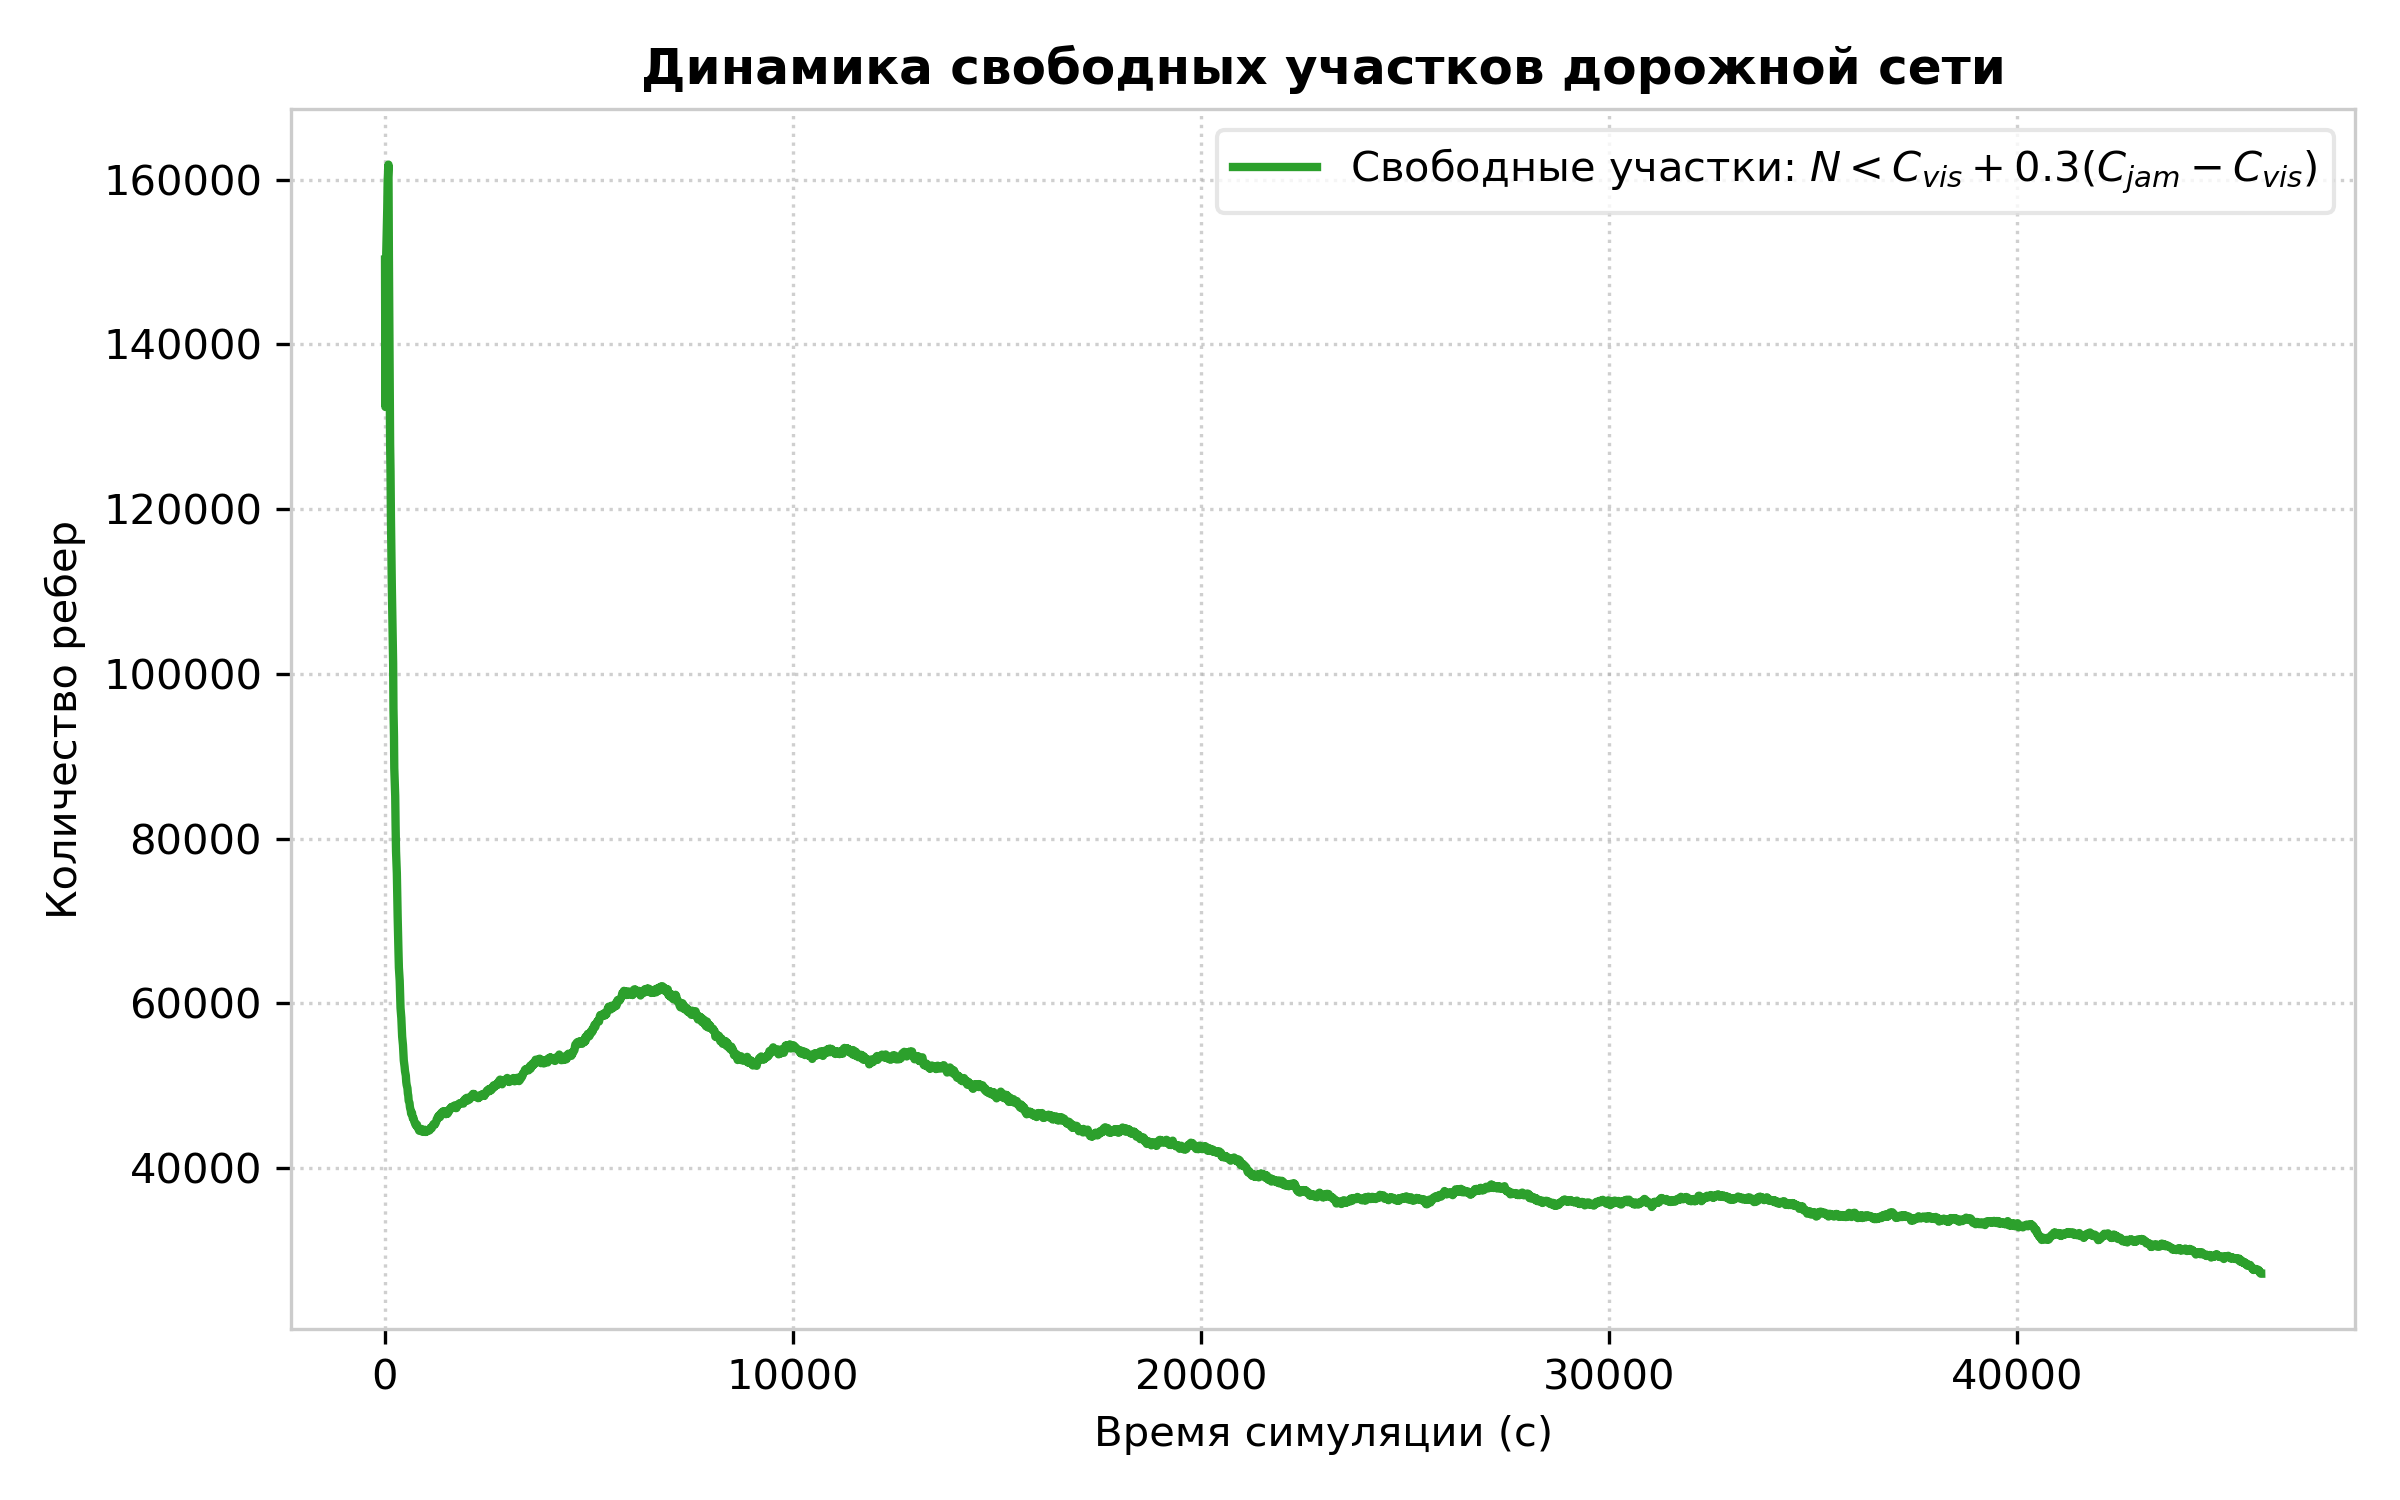
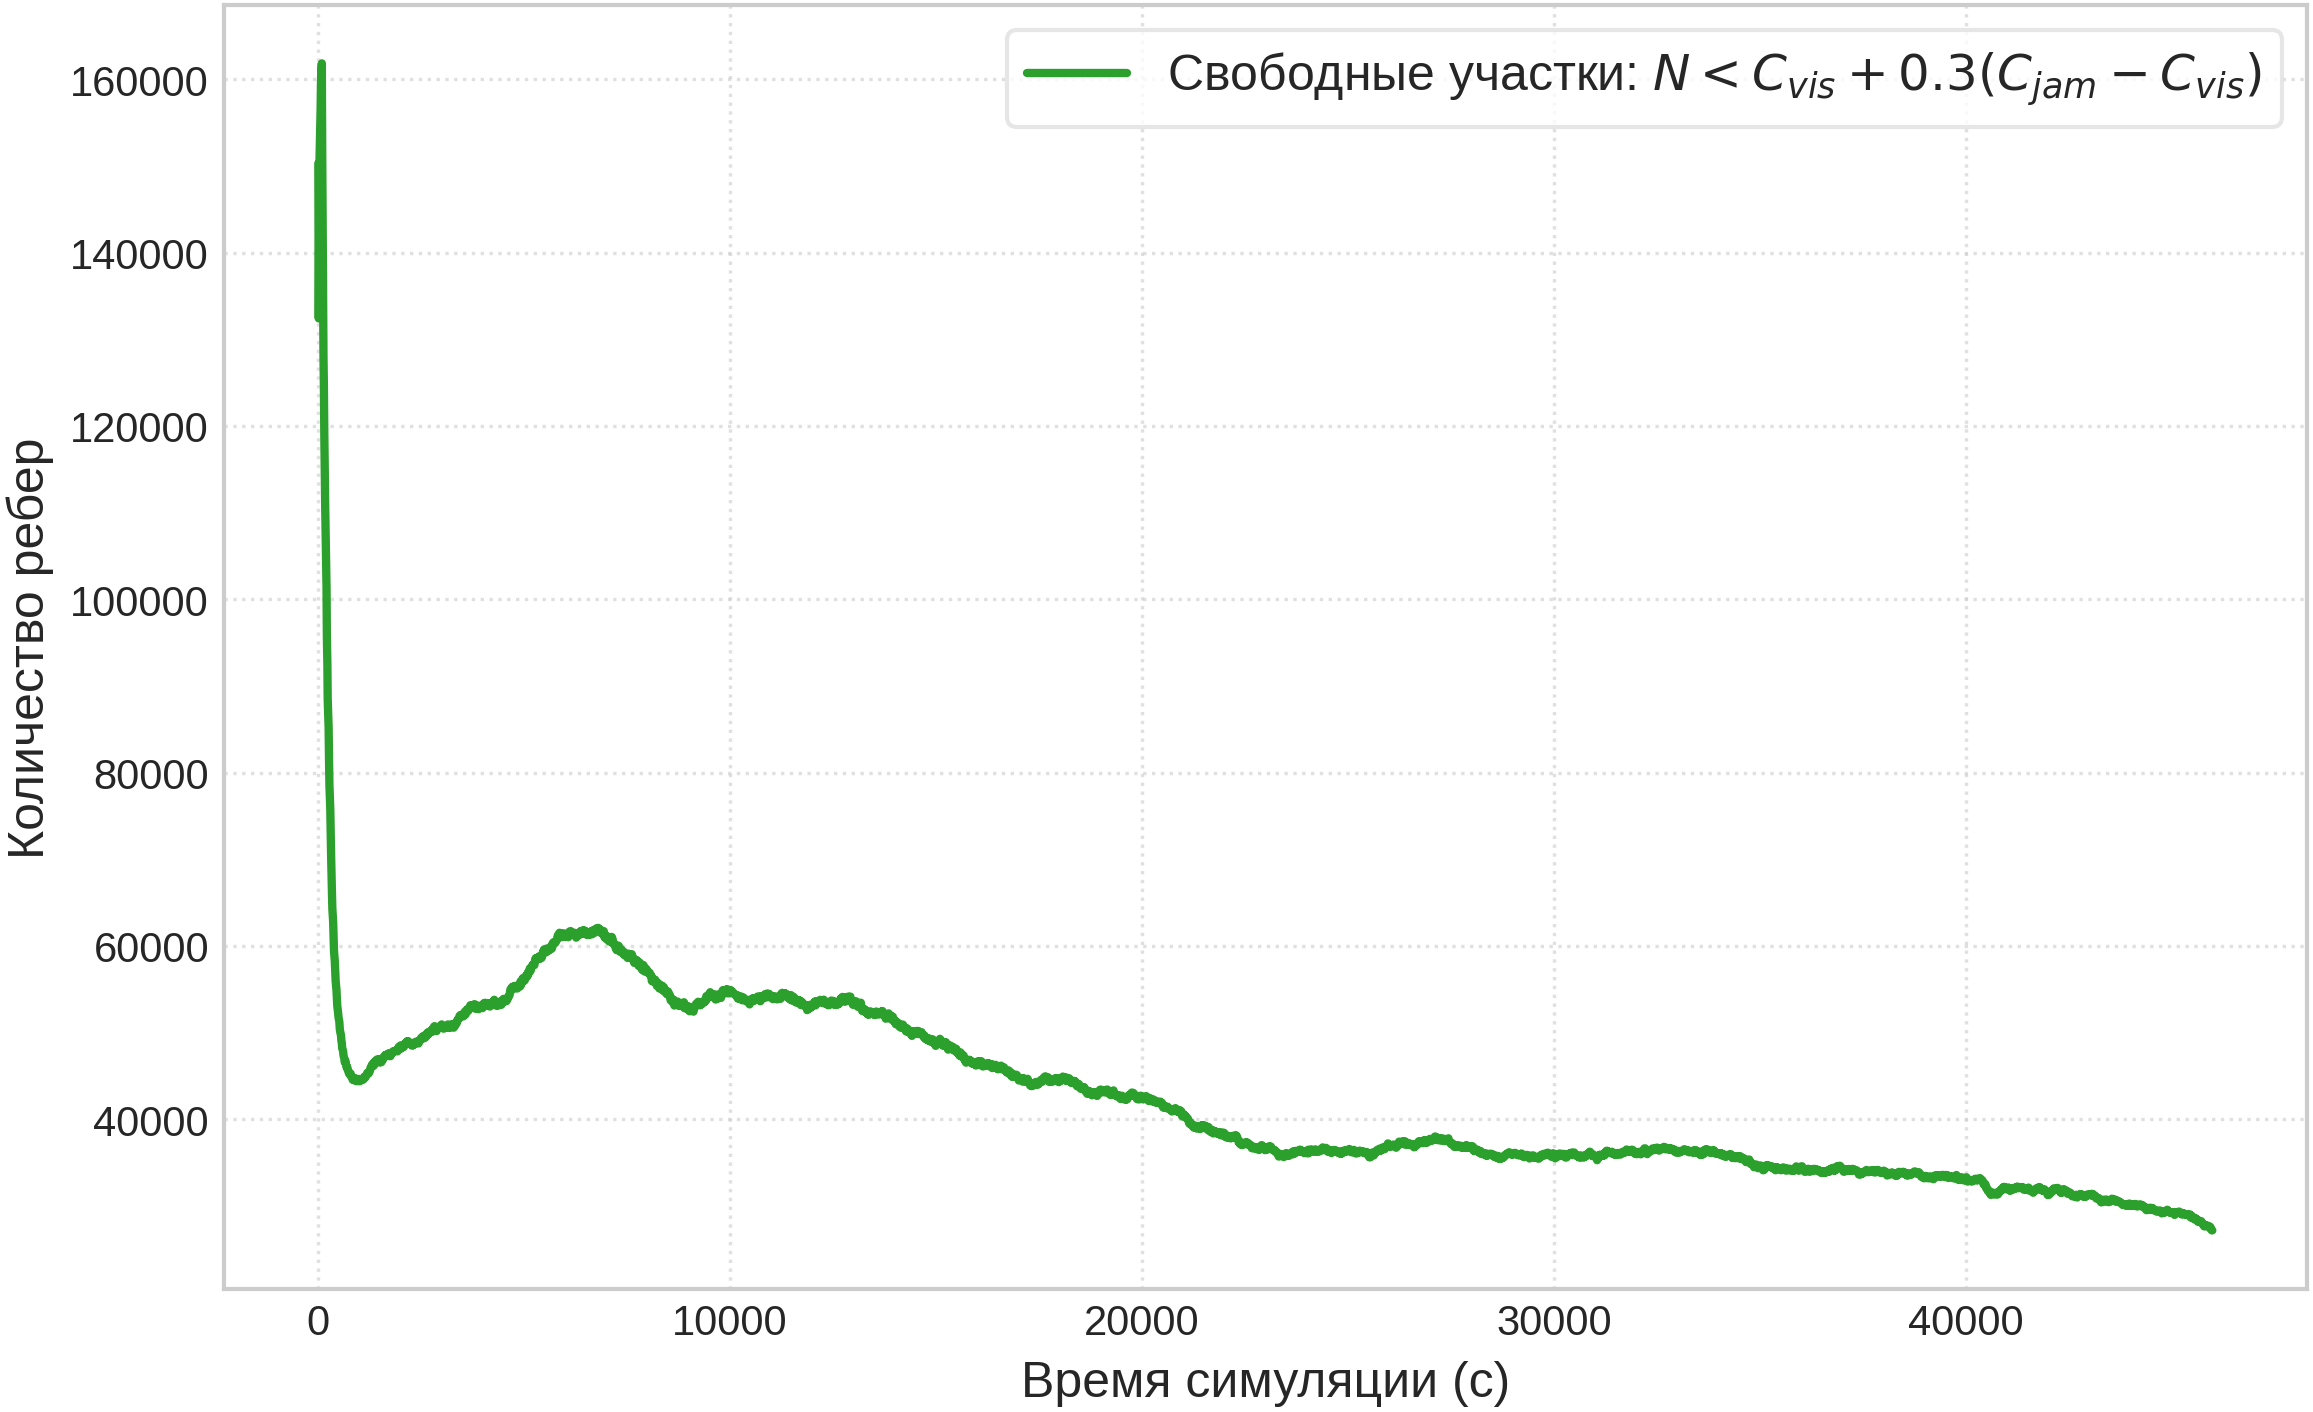
Унифицировать оформление и размеры графиков диссертации
refactor:
  * Made changes in generate_thesis_charts.py — вынесены глобальные константы DEFAULT_FIG_WIDTH, DEFAULT_FIG_HEIGHT, BASE_AXES_LABEL_SIZE и удалена лишняя тема seaborn, возвращающая чистый стиль whitegrid.
  * Made changes in apply_font_sizes() — реализовано корректное масштабирование шрифтов осей, делений и легенд для однопанельных и многопанельных графиков.

chore:
  * Added data-router-benchmark-multithreading_results.csv — добавлен файл с исходными данными бенчмарка многопоточности.
  * Changed assets/images/ — перегенерированы все графики диссертации с едиными размерами и без лишних внешних рамок.
  * Removed accuracy_comparison-4-algos-cropped.png, accuracy_comparison.png, fig_route_time.png, fig_rps.png, fig_visited_nodes.png — удалены устаревшие и избыточные изображения.

diff --git a/scripts/generate_thesis_charts.py b/scripts/generate_thesis_charts.py
@@ -7,25 +7,29 @@ import seaborn as sns
 
 # Set premium academic style (300 DPI for publication quality)
 plt.style.use('seaborn-v0_8-whitegrid')
-sns.set_theme(style="ticks")
 
-def apply_font_sizes(fig_width, fig_height=5.5, nrows=1, ncols=1):
+# Global style and sizing constants
+DEFAULT_FIG_WIDTH = 8.0
+DEFAULT_FIG_HEIGHT = 5.0
+BASE_AXES_LABEL_SIZE = 12
+
+def apply_font_sizes(fig_width, fig_height=DEFAULT_FIG_HEIGHT, nrows=1, ncols=1):
     """
     Глобально настраивает размеры шрифтов matplotlib в зависимости от размеров рисунка и сетки подграфиков.
     """
-    scale = fig_width / 9.0
+    scale = fig_width / DEFAULT_FIG_WIDTH
     if ncols > 1 or nrows > 1:
         # Для многопанельных рисунков делаем шрифт компактнее
-        scale *= 0.75
+        scale *= 0.85
         
-    axes_label_size = int(round(12 * scale))
+    axes_label_size = int(round(BASE_AXES_LABEL_SIZE * scale))
     plt.rcParams.update({
         'font.family': 'sans-serif',
         'font.size': axes_label_size - 1,
         'axes.labelsize': axes_label_size,
-        'axes.titlesize': int(round(13 * scale)),
-        'xtick.labelsize': axes_label_size - 1,
-        'ytick.labelsize': axes_label_size - 1,
+        'axes.titlesize': int(round((BASE_AXES_LABEL_SIZE + 1) * scale)),
+        'xtick.labelsize': axes_label_size - 2,
+        'ytick.labelsize': axes_label_size - 2,
         'legend.fontsize': axes_label_size,
         'legend.title_fontsize': axes_label_size,
         'figure.dpi': 300,
@@ -85,7 +89,7 @@ COMBO_STYLES = {
 
 def generate_alt_qps():
     print("📈 Plotting ALT QPS vs Complexity...")
-    apply_font_sizes(9.0, 5.5)
+    apply_font_sizes(DEFAULT_FIG_WIDTH, DEFAULT_FIG_HEIGHT)
     df = pd.read_csv(RUN_RESULTS_CSV)
     df = df[df['Queue'] != '8-ary-lazy'].copy()
     df = df[(df['Crashed'] == 0) & (df['Algorithm'] == 'ALT')].copy()
@@ -135,7 +139,7 @@ def generate_alt_qps():
 
 def generate_hardware_cycles():
     print("📈 Plotting Hardware Cycles Comparison...")
-    apply_font_sizes(9.0, 5.5)
+    apply_font_sizes(DEFAULT_FIG_WIDTH, DEFAULT_FIG_HEIGHT)
     df = pd.read_csv(RUN_RESULTS_CSV)
     df = df[df['Crashed'] == 0]
     
@@ -170,7 +174,7 @@ def generate_hardware_cycles():
 
 def generate_multithreading_scalability():
     print("📈 Plotting Multithreading Scalability...")
-    apply_font_sizes(9.0, 5.5)
+    apply_font_sizes(DEFAULT_FIG_WIDTH, DEFAULT_FIG_HEIGHT)
     df = pd.read_csv(MT_RESULTS_CSV)
     df = df[df['Mode'] != 'No-SMT-Affinity'].copy()
     
@@ -221,7 +225,7 @@ def generate_multithreading_scalability():
 
 def generate_best_combinations():
     print("📈 Plotting Ultimate Best Combinations Showdown with markers...")
-    apply_font_sizes(11.5, 5.5)
+    apply_font_sizes(DEFAULT_FIG_WIDTH, DEFAULT_FIG_HEIGHT)
     df = pd.read_csv(RUN_RESULTS_CSV)
     df = df[df['Queue'] != '8-ary-lazy'].copy()
     df = df[df['Crashed'] == 0].copy()
@@ -299,7 +303,6 @@ def generate_best_combinations():
     
     plt.legend(
         handles, labels,
-        title="Лучшие комбинации\n(Алгоритм + Очередь)",
         frameon=True, facecolor='white', edgecolor='#e0e0e0',
         loc='upper right'
     )
@@ -309,7 +312,7 @@ def generate_best_combinations():
 
 def generate_queue_overhead_trend():
     print("📈 Plotting Queue Overhead Trend Bar Chart...")
-    apply_font_sizes(9.0, 5.5)
+    apply_font_sizes(DEFAULT_FIG_WIDTH, DEFAULT_FIG_HEIGHT)
     df = pd.read_csv(RUN_RESULTS_CSV)
     df = df[df['Queue'] != '8-ary-lazy'].copy()
     df = df[df['Crashed'] == 0].copy()
@@ -350,7 +353,7 @@ def generate_queue_overhead_trend():
 
 def generate_accuracy_comparison():
     print("📈 Plotting 2x2 Accuracy Comparison (4 Algos) Chart...")
-    apply_font_sizes(15.0, 12.0, nrows=2, ncols=2)
+    apply_font_sizes(14.0, 11.0, nrows=2, ncols=2)
     df = pd.read_csv(RUN_RESULTS_CSV)
     df = df[df['Queue'] != '8-ary-lazy'].copy()
     df = df[df['Crashed'] == 0].copy()
@@ -407,7 +410,7 @@ def generate_accuracy_comparison():
         ax.grid(True, which="both", linestyle='--', alpha=0.5)
         
         if idx == 0:
-            ax.legend(title="Типы очередей", frameon=True, shadow=False, facecolor='white', edgecolor='#e0e0e0', loc='upper right')
+            ax.legend(frameon=True, shadow=False, facecolor='white', edgecolor='#e0e0e0', loc='upper right')
             
     plt.tight_layout()
     
@@ -417,7 +420,7 @@ def generate_accuracy_comparison():
 
 def generate_simulation_plots():
     print(f"📈 Plotting Simulation Metrics from CSV: {SIMULATION_CSV}")
-    apply_font_sizes(9.0, 5.5)
+    apply_font_sizes(DEFAULT_FIG_WIDTH, DEFAULT_FIG_HEIGHT)
     df = pd.read_csv(SIMULATION_CSV)
     time = df['SimTime']
     
